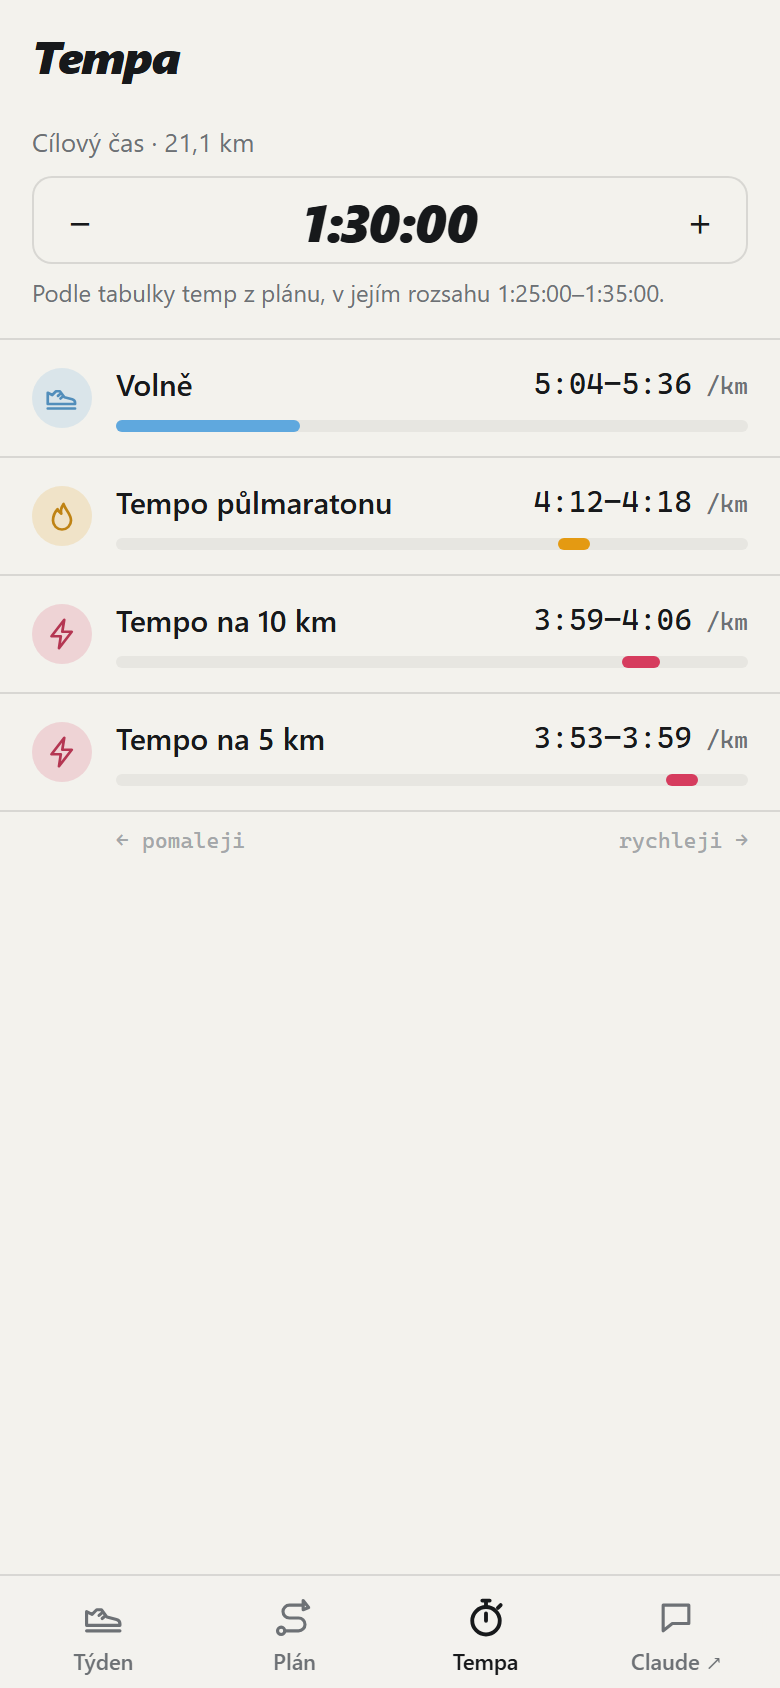
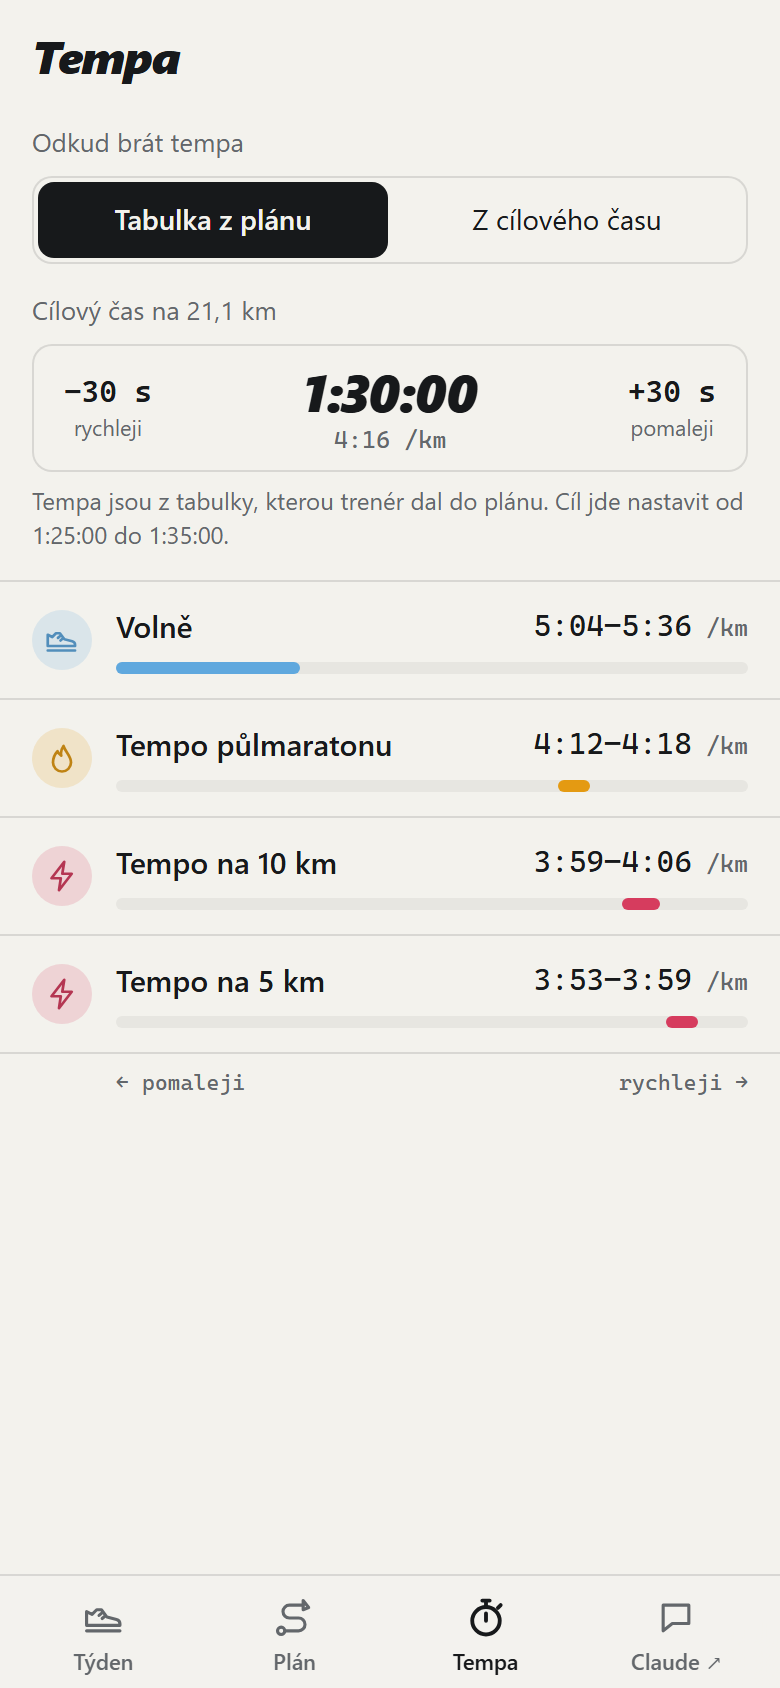
Web: nové screenshoty appky a popisy podle aktuální verze
- Screenshoty Týden, Plán, Tempa a Nový plán nafocené znovu (390×844 @2x, světlý režim)
- Popisky obrázků: dnešek v plánu, splněno plnou barvou, volba zdroje temp
- Krok „Běhej“ a README zmiňují přepínač Tabulka z plánu / Z cílového času

diff --git a/public/index.html b/public/index.html
@@ -26,7 +26,7 @@
       </div>
       <p id="app-hint" class="small">Appka běží v&nbsp;prohlížeči a&nbsp;jde přidat na plochu jako běžná aplikace, bez obchodu.</p>
       <figure class="hero-shot">
-        <img src="/shots/rpm-tyden.png" width="780" height="1688" alt="Týden v appce RPM: odpočet do závodu jako startovní číslo, uběhnuté kilometry jako trasa k cíli a dnešní trénink rozbalený s tempy a tlačítkem Odběhnuto">
+        <img src="/shots/rpm-tyden.png" width="780" height="1688" alt="Týden v appce RPM: odpočet do závodu jako startovní číslo, uběhnuté kilometry jako trasa k cíli, splněný úterní běh se zelenou fajfkou a dnešní trénink rozbalený s tempem a tlačítkem Odběhnuto">
       </figure>
     </header>
 
@@ -102,7 +102,7 @@
 
       <li>
         <h2>Běhej</h2>
-        <p>Záložka <b>Týden</b> ukáže dnešní trénink s&nbsp;tempy. Po běhu klepni na <b>Odběhnuto</b>. Trénink jde přesunout na jiný den nebo vynechat, poslat do hodinek Garmin a&nbsp;cílový čas si upravíš v&nbsp;<b>Tempech</b>. Na větší změny je Claude:</p>
+        <p>Záložka <b>Týden</b> ukáže dnešní trénink s&nbsp;tempy. Po běhu klepni na <b>Odběhnuto</b>. Trénink jde přesunout na jiný den nebo vynechat a&nbsp;poslat do hodinek Garmin. V&nbsp;<b>Tempech</b> si upravíš cílový čas a&nbsp;vybereš, jestli tempa brát z&nbsp;tabulky od trenéra, nebo je spočítat z&nbsp;cílového času. Na větší změny je Claude:</p>
         <ul class="prompts">
           <li>O&nbsp;víkendu nemůžu běhat, přeplánuj to.</li>
           <li>Mám rýmu, co s&nbsp;tímhle týdnem?</li>
@@ -114,9 +114,9 @@
     <section aria-labelledby="shots">
       <h2 id="shots">Jak appka vypadá</h2>
       <div class="shots">
-        <img src="/shots/rpm-plan.png" width="780" height="1688" loading="lazy" alt="Plán: všechny týdny po fázích, barvy podle intenzity, závod jako cílová vlajka a kilometry za týden">
+        <img src="/shots/rpm-plan.png" width="780" height="1688" loading="lazy" alt="Plán: všechny týdny po fázích, splněné běhy plnou barvou podle intenzity, budoucí jen obrysem, dnešek označený oranžově, závod jako cílová vlajka a uběhnuté kilometry vedle plánovaných">
         <img src="/shots/rpm-novy.png" width="780" height="1688" loading="lazy" alt="Nový plán: plán od trenéra nebo plán podle Stravy, obojí připraví Claude">
-        <img src="/shots/rpm-tempa.png" width="780" height="1688" loading="lazy" alt="Tempa: cílový čas, který jde změnit, a pásma temp na kilometr na jedné ose od volného běhu po tempo na 5 km">
+        <img src="/shots/rpm-tempa.png" width="780" height="1688" loading="lazy" alt="Tempa: volba, jestli brát tempa z tabulky v plánu, nebo je spočítat z cílového času, cílový čas měnitelný po 30 sekundách s tempem na kilometr a pásma temp na jedné ose od volného běhu po tempo na 5 km">
       </div>
     </section>
 

diff --git a/README.md b/README.md
@@ -14,10 +14,10 @@ Stav a zbývající kroky jsou v [CHECKLIST.md](CHECKLIST.md).
 6. Trenér: `fatigueOf` z posledních zápisů pozná únavu nebo bolest a appka i `get_plan` na ni upozorní. `show_result` z úseků nebo tempového běhu bez zhoršujících okolností spočítá odhad VDOT; ten se uloží se zápisem (`estimateVdot`) a přehled plánu ukáže vývoj formy a předpověď na cílovou vzdálenost.
 7. Paměť mezi plány: `set_profile` ukládá poznámky trenéra o běžci (zranění, volné dny, cíle). Po posledním týdnu plánu ukáže `show_week` shrnutí a další plán naváže na historii. Prompty `plan-z-dokumentu`, `novy-plan` a `tydenni-kontrola` připraví obvyklé postupy.
 8. Grafika je jen v appce RPM (`/app/`). Appka volá `/mcp/<klíč>?client=app` a jen ona dostává `structuredContent` a nástroj `show_week` (záložky týden, plán, tempa, nový plán). Model v Claude dostává jen text a méně nástrojů, takže šetří tokeny; žádné karty v chatu ani MCP Apps.
-9. Tabulku temp s řádky pro různé cílové časy pošle model při importu jako `paceTable`. `set_goal_time` (appka, záložka Tempa) pak tempa přepočítá podle cílového času: mezi řádky tabulky lineárně a jen v jejím rozsahu, bez tabulky podle VDOT na délku závodu. `calculate_paces` spočítá tempa a předpovědi závodů z jednoho výkonu vzorci VDOT (`src/domain/vdot.ts`, test proti tabulkám Danielse); instrukce konektoru říkají modelu, aby tempa neodhadoval.
+9. Tabulku temp s řádky pro různé cílové časy pošle model při importu jako `paceTable`. `set_goal_time` (appka, záložka Tempa) pak tempa přepočítá podle cílového času: mezi řádky tabulky lineárně a jen v jejím rozsahu, bez tabulky podle VDOT na délku závodu. Když jde obojí, appka nabídne přepínač „Tabulka z plánu / Z cílového času“ (`method`, volba se drží v profilu jako `paceMethod`). `calculate_paces` spočítá tempa a předpovědi závodů z jednoho výkonu vzorci VDOT (`src/domain/vdot.ts`, test proti tabulkám Danielse); instrukce konektoru říkají modelu, aby tempa neodhadoval.
 10. V appce jde jednotku odškrtnout, přesunout, vynechat a obnovit; Zhodnotit otevře Clauda, ten běh porovná se Stravou přes `show_result` a zapíše ho.
 11. `export_garmin` převede jednotku na strukturovaný trénink FIT (kroky, opakování, cílová tempa) a vystaví ho 24 hodin na `/garmin/<token>`; prošlé soubory se při dalším exportu smažou a `delete_all_data` smaže i soubory daného prostoru. Kódování je v `src/connector/fit.ts` a test ho čte nezávislým dekodérem.
-12. Aplikace RPM (Run Plan Modulator) na `/app/` je PWA pro telefon, obyčejná stránka bez rámu: záložky Týden (profil jednotek, dnešek s jedním tlačítkem Odběhnuto a tichými odkazy Přesunout, Vynechat, Do hodinek; po zápisu Zhodnotit se Stravou; swipe mezi týdny; nabídka instalace na plochu), Plán (matice týdnů × dnů, nový plán z generátoru přes `draft_plan` a `activate_plan`, schválení rozpracovaného importu) a Tempa. Nástroje volá přímo na adrese konektoru (klíč je jen v prohlížeči, z úvodní stránky přijde v kotvě odkazu) a poslední týden drží pro start bez signálu. Plán z dokumentu přepíše Claude a appka ho ukáže ke schválení.
+12. Aplikace RPM (Run Plan Modulator) na `/app/` je PWA pro telefon, obyčejná stránka bez rámu: záložky Týden (profil jednotek, dnešek s jedním tlačítkem Odběhnuto a tichými odkazy Přesunout, Vynechat, Do hodinek; po zápisu Zhodnotit se Stravou; swipe mezi týdny; nabídka instalace na plochu), Plán (matice týdnů × dnů s vyznačeným dneškem, nový plán z generátoru přes `draft_plan` a `activate_plan`, schválení rozpracovaného importu) a Tempa. Nástroje volá přímo na adrese konektoru (klíč je jen v prohlížeči, z úvodní stránky přijde v kotvě odkazu) a poslední týden drží pro start bez signálu. Plán z dokumentu přepíše Claude a appka ho ukáže ke schválení.
 
 ## Hranice vůči Stravě
 
